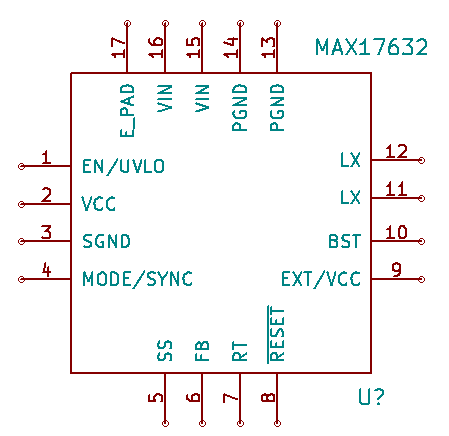
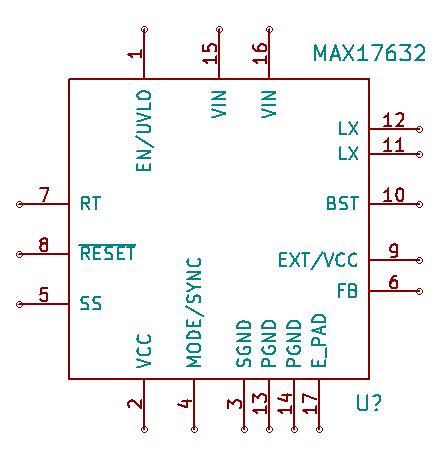
- changed layout of the part for easier wiring - added 5V typical application circuit

Changed region(s): [[0.0291, 0.0298, 0.9619, 0.9839]]

diff --git a/README.md b/README.md
@@ -4,5 +4,8 @@ KiCad part library for Maxim's high efficiency, synchronous, step-down DC-DC con
 ## Library part symbol
 ![MAX17632 part image](https://github.com/mkudlacek/MAX17632/blob/master/max17632.png)
 
+## Typical Application Circuit — Fixed 5V Output
+![5V application circuit image](https://github.com/mkudlacek/MAX17632/blob/master/5v_circuit.png)
+
 ## Datasheet
 [MAX17632 datasheet](https://github.com/mkudlacek/MAX17632/blob/master/MAX17632-1287024.pdf)
